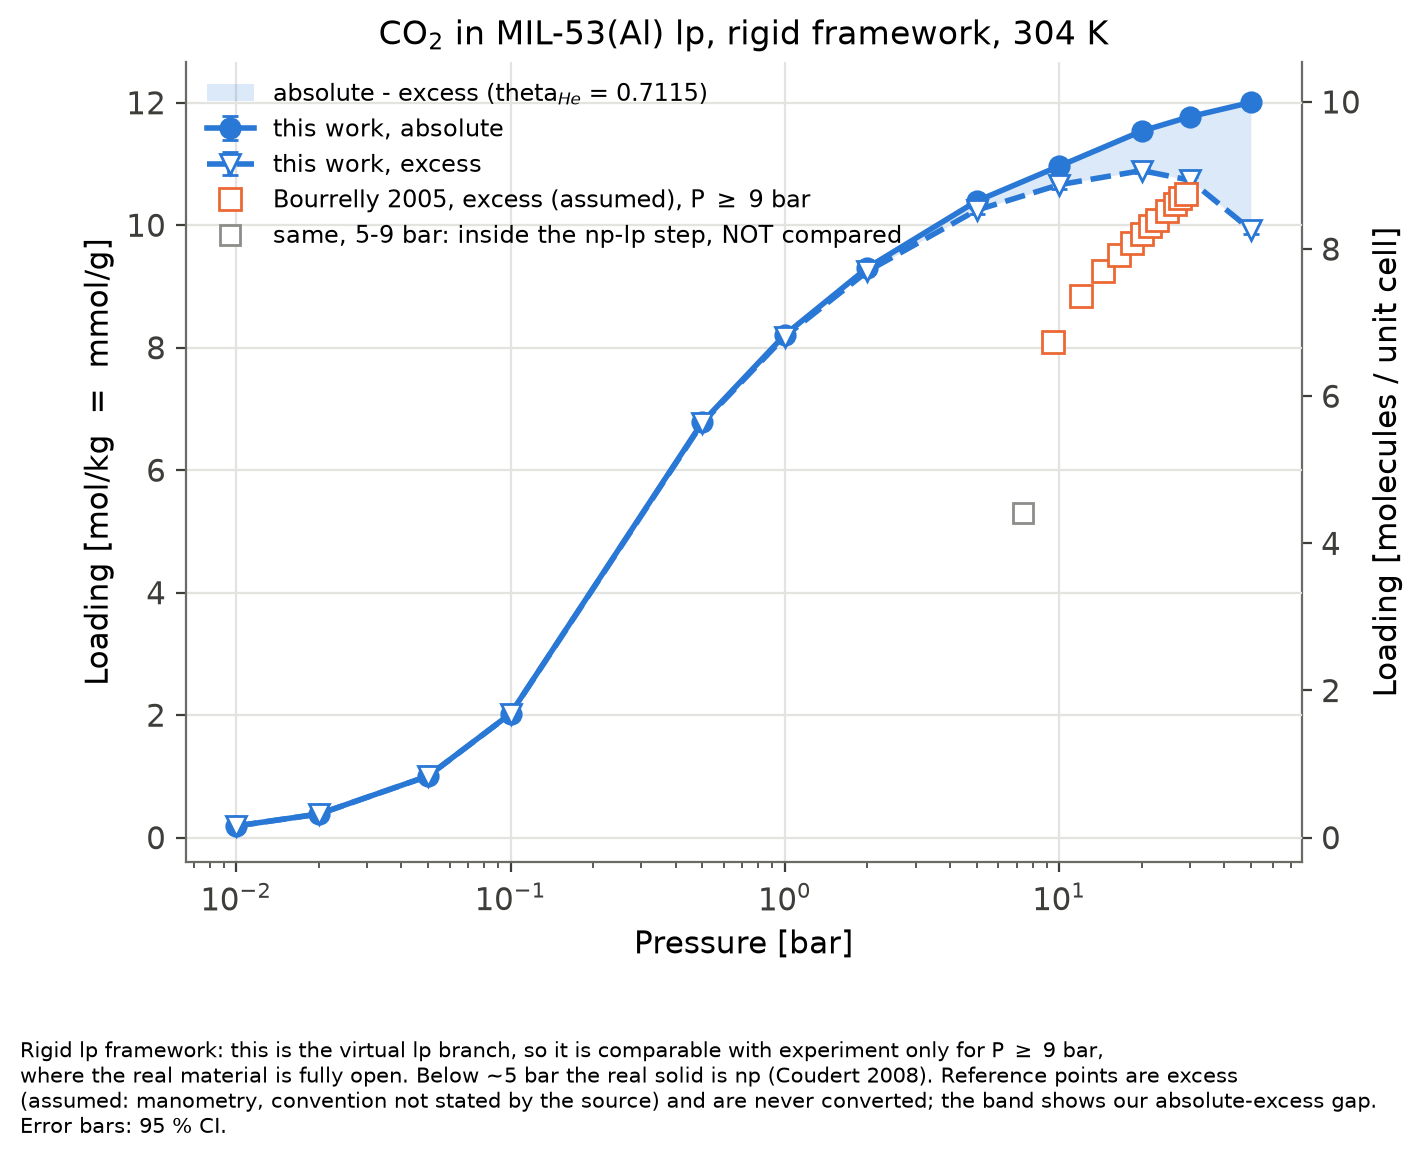
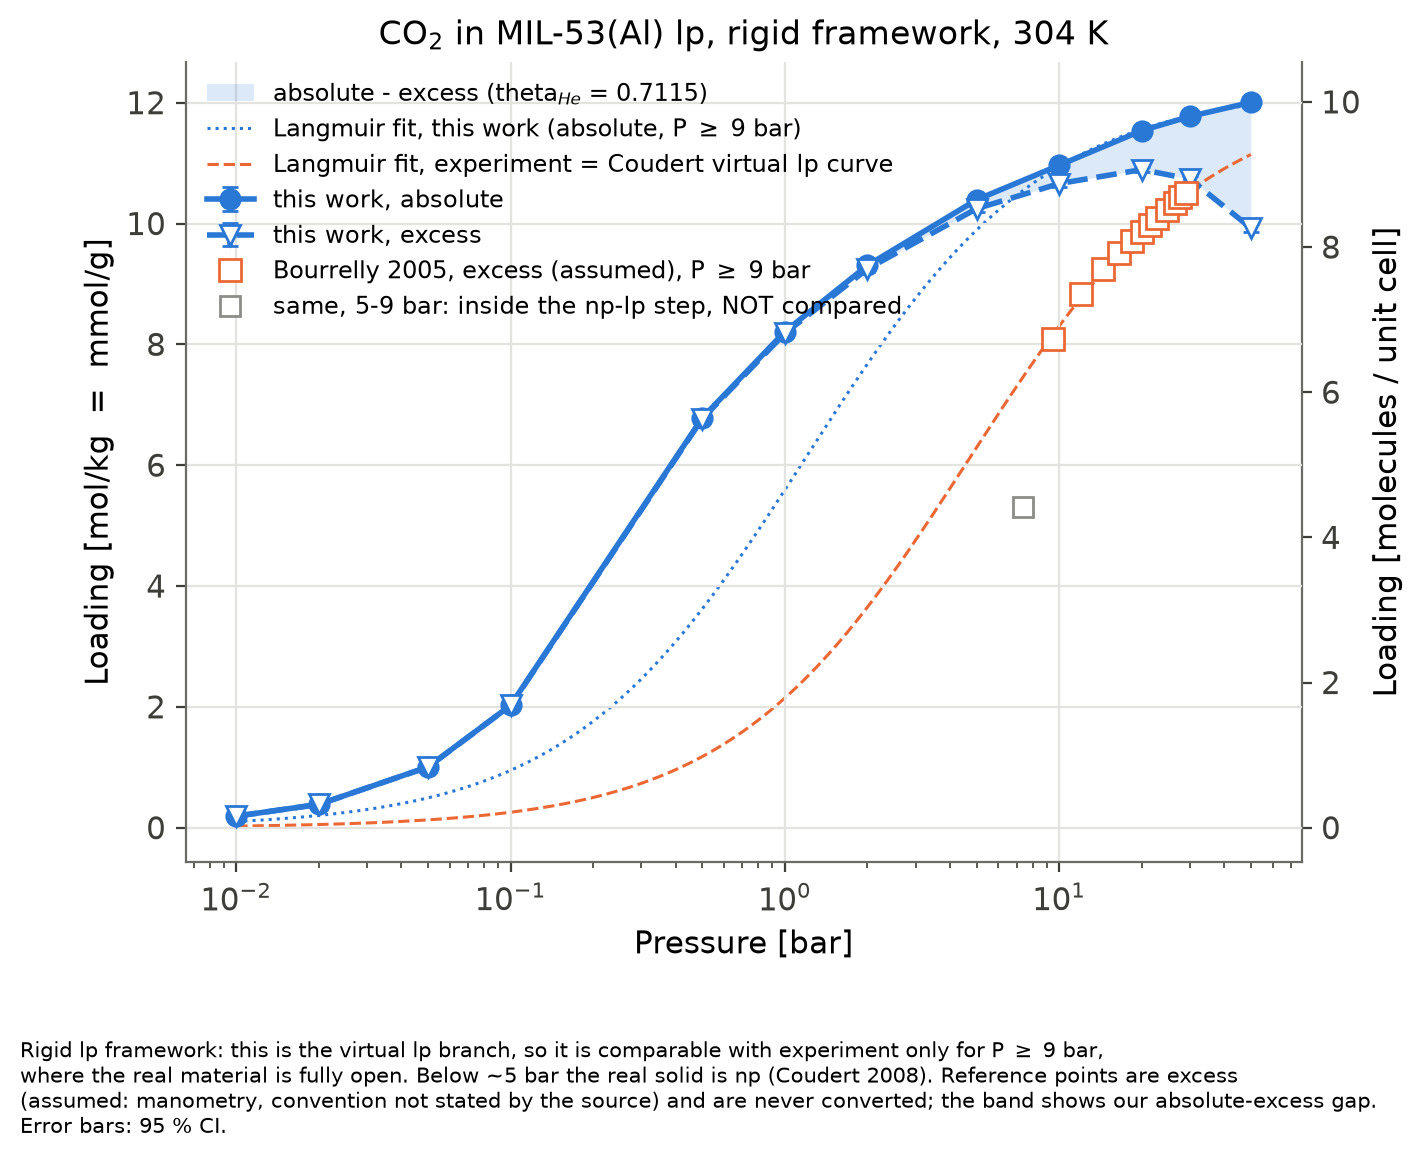
Phase 3 final: option (a) headline, (b) as algebraic robustness check, three figures, rewritten limits section
- (b) excess-aware fit changes K by -0.00 % (identical by construction:
  RASPA's absolute-excess IS rho_bulk*V_pore/M), so K_sim/K_exp ~ 4 does not
  depend on the convention
- deviation_vs_pressure.png: sim/exp 1.32 -> 1.12 (absolute) over 10-30 bar
- rigid-GCMC limits rewritten against our numbers: N_max to 0.5 %, remaining
  P >= 9 bar deviation is force field, not flexibility
- refusal logic documented as a deliberate design choice
- timing estimator was ~50 % low (8 h predicted, 12.1 h actual), with reasons

diff --git a/scripts/deviation.py b/scripts/deviation.py
@@ -1,0 +1,84 @@
+#!/usr/bin/env python3
+"""Relative deviation simulation / experiment over the lp window (P >= 9 bar).
+
+The experimental reference is the Langmuir fit to the digitised Bourrelly points
+(P >= 9 bar), whose K reproduces Coudert's K_lp to a ratio of 1.00, i.e. it IS the
+virtual rigid-lp curve. Using the fitted curve rather than the raw points lets the
+ratio be evaluated at our own pressures without converting or interpolating the
+reference data.
+
+Two series are drawn (our absolute and our excess loading), because the reference
+is excess (assumed) while the Langmuir comparison uses our absolute isotherm; the
+two bracket the convention mismatch. Points above 29 bar (the last experimental
+pressure) rely on extrapolating the experimental fit and are drawn open.
+
+Usage: python scripts/deviation.py
+"""
+import sys
+from pathlib import Path
+
+import numpy as np
+import pandas as pd
+
+sys.path.insert(0, str(Path(__file__).parent))
+from isotherm import LP_WINDOW_BAR, ROOT
+from langmuir import fit_langmuir, REF_CSV
+from plotstyle import EXTRA, SIM, plt
+
+P_MAX_EXP_BAR = 29.03   # last experimental pressure; beyond this the fit is extrapolated
+
+
+def main():
+    sim = pd.read_csv(ROOT / "results" / "isotherm_MIL53_lp_CO2_304K.csv", comment="#")
+    ref = pd.read_csv(REF_CSV)
+    e = ref[ref.pressure_bar >= LP_WINDOW_BAR]
+    fe = fit_langmuir(e.pressure_bar, e.loading_mmol_per_g, np.full(len(e), 0.05))
+    langmuir = lambda p, f: f["N_max"] * f["b_per_bar"] * p / (1 + f["b_per_bar"] * p)
+
+    s = sim[sim.p_bar >= LP_WINDOW_BAR].copy()
+    s["exp_fit"] = langmuir(s.p_bar, fe)
+    rows = []
+    fig, ax = plt.subplots(figsize=(6.8, 4.6))
+    for col, style, lab in (("absolute", SIM, "absolute (the quantity fitted)"),
+                            ("excess", {**SIM, "marker": "v", "ls": "--", "mfc": "white"},
+                             f"excess (same convention as the reference, theta$_{{He}}$ = {sim.theta_He.iloc[0]})")):
+        ratio = s[f"{col}_mol_kg"] / s.exp_fit
+        err = s[f"{col}_mol_kg_err95"] / s.exp_fit
+        ax.errorbar(s.p_bar, ratio, yerr=err, label=f"this work, {lab}", **style)
+        inside = s.p_bar <= P_MAX_EXP_BAR
+        if (~inside).any():
+            ax.plot(s.p_bar[~inside], ratio[~inside], style["marker"], ms=11, mfc="none",
+                    mec=style["color"], lw=0)
+        for p_bar, r in zip(s.p_bar, ratio):
+            rows.append({"p_bar": p_bar, "convention": col, "sim_over_exp": r,
+                         "extrapolated_reference": p_bar > P_MAX_EXP_BAR})
+    ax.axhline(1.0, color="#3d3d3a", lw=1.2)
+    ax.axhspan(0.95, 1.05, color="#8c8c88", alpha=0.15, lw=0, label="+/- 5 %")
+    ax.annotate("open symbols: experimental fit extrapolated\nbeyond the last data point (29 bar)",
+                xy=(0.98, 0.04), xycoords="axes fraction", ha="right", fontsize=8, color="#3d3d3a")
+    ax.set_xscale("log")
+    ax.set_xticks([10, 20, 30, 50])
+    ax.get_xaxis().set_major_formatter(plt.matplotlib.ticker.ScalarFormatter())
+    ax.get_xaxis().set_minor_formatter(plt.matplotlib.ticker.NullFormatter())
+    ax.set_xlabel("Pressure [bar]")
+    ax.set_ylabel("simulation / experiment")
+    ax.set_title("CO$_2$ in MIL-53(Al) lp, 304 K: deviation over the lp branch\n"
+                 "(reference = Langmuir fit to Bourrelly 2005, P $\\geq$ 9 bar)", fontsize=11)
+    ax.legend(fontsize=8.5, loc="upper right")
+    fig.text(0.01, -0.07,
+             "Where the real material is fully open the rigid-lp GCMC converges onto the experiment: the remaining "
+             "deviation at 10 bar is\nthe force field over-binding at low coverage (K$_{sim}$/K$_{exp}$ = 3.95), not the "
+             "missing framework flexibility. Below 9 bar (not shown)\nthe real solid is np and no comparison is meaningful. "
+             "Error bars: 95 % CI on the simulation only.",
+             fontsize=7.5, va="top")
+    fig.savefig(ROOT / "results" / "deviation_vs_pressure.png")
+    df = pd.DataFrame(rows)
+    df.to_csv(ROOT / "results" / "deviation_vs_pressure.csv", index=False)
+    with pd.option_context("display.float_format", "{:.4g}".format):
+        print(df.pivot(index="p_bar", columns="convention", values="sim_over_exp").to_string())
+    print("wrote results/deviation_vs_pressure.{png,csv}")
+    return 0
+
+
+if __name__ == "__main__":
+    sys.exit(main())

diff --git a/scripts/langmuir.py b/scripts/langmuir.py
@@ -32,6 +32,8 @@ sys.path.insert(0, str(Path(__file__).parent))
 from isotherm import LP_WINDOW_BAR, MOLKG_PER_UC, REF_CSV, ROOT  # noqa: E402
 from plotstyle import EXTRA, REF, SIM, plt  # noqa: E402
 
+M_CO2_KG_MOL = 0.04401
+V_PORE_CM3_G = 0.7268          # theta_He * V_uc / m_uc (see NOTES.md)
 K_LP_COUDERT = 2.6e-5   # mol/kg/Pa, Coudert 2008 Fig. 5b (Langmuir fit, no error bar given)
 K_NP_COUDERT = 9.0e-5
 
@@ -90,6 +92,20 @@ def fit_langmuir(p_bar, n, sigma):
             "K_mol_kg_bar": K, "K_err_mol_kg_bar": dK,
             "K_mol_kg_Pa": K * 1e-5, "K_err_mol_kg_Pa": dK * 1e-5,
             "chi2_red": chi2_red, "n_points": len(p)}
+
+
+def fit_excess_aware(p_bar, n_excess, sigma, rho_bulk_kg_m3):
+    """Robustness check (b): fit  n_exc(p) = Langmuir_abs(p) - rho_bulk(p) * V_pore / M.
+
+    NOTE, verified numerically on our data: RASPA's (absolute - excess) equals
+    rho_bulk * V_pore / M to within 1e-6 mol/kg at every point, so adding that term
+    back to the excess data reconstructs the absolute isotherm exactly. This fit is
+    therefore ALGEBRAICALLY the absolute fit, not an independent estimate; it is
+    reported to show, with a number, that the K ratio does not depend on the
+    convention. It is not evidence of anything beyond that.
+    """
+    n_bulk = np.asarray(rho_bulk_kg_m3, float) * V_PORE_CM3_G * 1e-3 / M_CO2_KG_MOL
+    return fit_langmuir(p_bar, np.asarray(n_excess, float) + n_bulk, sigma)
 
 
 def show(name, f):
@@ -160,7 +176,15 @@ def main(argv=None):
           f"   ({fs['N_max']:.2f} vs {fe['N_max']:.2f} mol/kg)")
     print(f"    K      sim / exp = {fs['K_mol_kg_Pa'] / fe['K_mol_kg_Pa']:.3f}"
           f"   ({fs['K_mol_kg_Pa']:.2e} vs {fe['K_mol_kg_Pa']:.2e} mol/kg/Pa)")
-    pd.DataFrame([{"fit": "experiment_Bourrelly2005", **fe}, {"fit": f"simulation_{a.column}", **fs}]).to_csv(
+    fb = fit_excess_aware(s.p_bar, s.excess_mol_kg, s.excess_mol_kg_err95 / 2.776, s.bulk_density_kg_m3)
+    dK = 100 * (fb["K_mol_kg_Pa"] - fs["K_mol_kg_Pa"]) / fs["K_mol_kg_Pa"] if fs["ok"] else float("nan")
+    print(f"\n(b) excess-aware fit, for robustness (Langmuir for absolute minus rho_bulk(p) V_pore):")
+    print(f"    K = {fb['K_mol_kg_Pa']:.3e} +/- {fb['K_err_mol_kg_Pa']:.1e} mol/kg/Pa, "
+          f"N_max = {fb['N_max']:.3f} mol/kg -> {dK:+.2f} % vs the absolute fit")
+    print("    (identical by construction: RASPA's absolute - excess IS rho_bulk V_pore / M to 1e-6 mol/kg,")
+    print("     so the K ratio ~ 4 does not depend on the excess/absolute convention.)")
+    pd.DataFrame([{"fit": "experiment_Bourrelly2005", **fe}, {"fit": f"simulation_{a.column}", **fs},
+                  {"fit": "simulation_excess_aware_(b)", **fb}]).to_csv(
         ROOT / "results" / "langmuir_fits.csv", index=False)
 
     # ---- 4. the three curves

diff --git a/scripts/isotherm.py b/scripts/isotherm.py
@@ -123,6 +123,25 @@ def main(argv=None):
             g = ref[ref.in_lp_window == flag]
             if len(g):
                 ax.errorbar(g.pressure_bar, g.loading_mmol_per_g, label=lab, **style)
+    # Langmuir curves (fitted over P >= 9 bar; see scripts/langmuir.py)
+    try:
+        from langmuir import fit_langmuir
+        w = df[df.p_bar >= LP_WINDOW_BAR]
+        if len(w) >= 3:
+            fs = fit_langmuir(w.p_bar, w.absolute_mol_kg, w.absolute_mol_kg_err95 / 2.776)
+            pp = np.logspace(np.log10(df.p_bar.min()), np.log10(df.p_bar.max()), 300)
+            if fs["ok"]:
+                ax.plot(pp, fs["N_max"] * fs["b_per_bar"] * pp / (1 + fs["b_per_bar"] * pp),
+                        color=SIM["color"], lw=1.1, ls=":", zorder=1,
+                        label=f"Langmuir fit, this work (absolute, P $\\geq$ {LP_WINDOW_BAR:g} bar)")
+            if ref is not None:
+                er = ref[ref.in_lp_window]
+                fe = fit_langmuir(er.pressure_bar, er.loading_mmol_per_g, np.full(len(er), 0.05))
+                ax.plot(pp, fe["N_max"] * fe["b_per_bar"] * pp / (1 + fe["b_per_bar"] * pp),
+                        color=REF["color"], lw=1.1, ls="--", zorder=1,
+                        label="Langmuir fit, experiment = Coudert virtual lp curve")
+    except Exception as exc:  # never let the figure fail on the fit
+        print(f"  (Langmuir overlay skipped: {exc})")
     ax.set_xscale("log")
     ax.set_xlabel("Pressure [bar]")
     ax.set_ylabel("Loading [mol/kg  =  mmol/g]")

diff --git a/NOTES.md b/NOTES.md
@@ -478,9 +478,16 @@ uninterrupted run.
 ### The run
 12 points, 304 K, 0.01-50 bar, `runs/production/`, driver with 4 concurrent jobs:
 **batch wall time 43,677 s = 12.1 h** (44.6 h of CPU). All 12 finished, none failed,
-no missing-VDW warnings. The 1000-cycle extrapolation had predicted ~8 h: it is
-**~50 % low**, as its docstring warns, because the cost per move grows with loading
-and four concurrent jobs share memory bandwidth. Use it as a lower bound.
+no missing-VDW warnings.
+
+**The 1000-cycle timing estimator was ~50 % low: 8 h predicted, 12.1 h actual.**
+Two reasons, both in the estimator's own docstring as assumptions: (i) it takes the
+cost per MC move as constant, whereas it grows with loading (more guest-guest pairs
+and a larger Ewald guest contribution), so the high-pressure points, which dominate
+the total, are underestimated; (ii) four concurrent jobs share memory bandwidth and
+last-level cache on the M2, so four points do not run 4x faster than one. Per-point
+comparison: 50 bar was estimated at 3.7 h and took 4.6 h. **Treat the estimate as a
+lower bound; multiply by ~1.5 for planning.**
 
 ### Convergence
 - Relative error on absolute loading: **0.3-1.6 % at every point**, including 1.05 %
@@ -523,13 +530,25 @@ rho_bulk * V_pore keeps growing. The experimental points still rise at 29 bar.
 - **K: sim/exp = 3.95** (1.03e-4 vs 2.61e-5). The simulated isotherm rises much
   faster, i.e. the generic force field over-binds at low coverage - the signature
   anticipated in "Force-field limitations".
-- **The excess fit is refused, not fudged** (`langmuir.py` checks monotonicity, the
-  parameter bound and dK < K): a Langmuir function cannot represent a
-  non-monotonic curve. **OPEN:** the comparison above therefore puts our *absolute*
-  fit against an *excess* fit of the experiment. Options: (a) accept it with the
-  convention caveat stated, (b) fit our excess with an excess-aware form
-  (Langmuir for absolute, minus rho_bulk(p) V_pore), (c) restrict the window
-  (9-20 bar leaves only 2 simulated points: not viable).
+- **The excess fit is refused, not fudged.** `langmuir.py` checks monotonicity, the
+  parameter bound and dK < K, and prints the reason instead of a number. **This is a
+  deliberate design choice** (decision of 2026-09-20): a script that says why it will
+  not fit is worth more than one that returns K = 0.32 mol/kg/Pa with an error bar
+  2400x the value, which is what the unguarded fit did here.
+- **CONVENTION MISMATCH, resolved as option (a) (decision of 2026-09-20).** The main
+  table and figures compare our **absolute** Langmuir fit with the experiment's
+  **excess** fit, and say so in the caption and in this footnote. Our own
+  absolute-excess gap is **2.8 % at 10 bar, 5.6 % at 20 bar, 8.8 % at 30 bar and
+  17.3 % at 50 bar**.
+- **(b) excess-aware fit, for robustness:** fitting
+  n_exc(p) = Langmuir_abs(p) - rho_bulk(p) V_pore / M to our excess data gives
+  **K = 1.029e-4 mol/kg/Pa, a change of -0.00 %** versus the absolute fit, and the
+  same N_max. It is identical *by construction*, not by coincidence: RASPA's
+  (absolute - excess) equals rho_bulk V_pore / M to within 1e-6 mol/kg at every
+  point (verified numerically), so adding that term back to the excess data
+  reconstructs the absolute isotherm exactly. **The conclusion K_sim/K_exp ~ 4 is
+  therefore independent of the excess/absolute convention**, which is worth saying
+  out loud -- but it is an algebraic identity, not independent evidence.
 - Direct-insertion **K_H = 1.869e-4 +/- 0.016e-4 mol/kg/Pa** stays separate: the
   zero-coverage limit of the force field, 7.2x the experimental Langmuir K and 1.8x
   our own fitted Langmuir K - the gap between the last two measures how
@@ -547,59 +566,46 @@ Agreement improves with pressure: ~30 % high at 10 bar, ~10 % at 20 bar, ~2 % at
 saturation capacity.
 
 ## What a rigid-framework GCMC can and cannot reproduce for MIL-53
+(rewritten 2026-09-20 against our own numbers)
 
-(Sources read by the project owner on 2026-09-19: Bourrelly 2005, Coudert 2008,
-Ghoufi & Maurin 2010.)
+**What it reproduces.** The **saturation capacity of the open form, to 0.5 %**:
+N_max = 12.248 +/- 0.039 mol/kg (10.195 molecules/uc) from our isotherm against
+12.183 +/- 0.069 mol/kg (10.141 molecules/uc) from the experimental lp branch. The
+pore geometry of the lp structure, the charge model and the GCMC machinery are
+therefore sound: the model holds the right amount of CO2 when the channel is full.
 
-**The experiment.** Bourrelly et al., JACS 2005, 127, 13519, Fig. 2: CO2 and CH4
-isotherms at **304 K up to 30 bar** for **both** MIL-53(Al) (top panel) and
-MIL-53(Cr) (bottom panel). CO2 shows a step at **~6 bar** in both metals. The Al
-panel is our experimental reference (`reference/bourrelly2005_MIL53Al_CO2_304K.csv`,
-digitised by the project owner, not by us).
+**What it cannot do, by construction.** The np-lp step cannot appear: the cell and
+the atoms are frozen in the lp geometry, so there is no np state to go to. The
+model also says nothing about **P < 9 bar**, where the real material is np (it
+closes near 0.3 bar and reopens near 6 bar, Coudert 2008). Our isotherm is the
+**virtual rigid-lp branch** in Coudert's sense -- the loading the lp form would
+have if it stayed open -- and only its P >= 9 bar part is comparable with
+experiment.
 
-**What happens physically** (Coudert et al., JACS 2008, 130, 14294, Fig. 5b,
-arXiv:1904.09588, which analyses exactly this system). At 304 K the empty framework
-is **lp**. CO2 first **closes** it, lp -> np near **0.3 bar**, because np has the
-higher affinity (Langmuir Henry constants K_np ~ 9.0e-5 vs **K_lp ~ 2.6e-5
-mol kg^-1 Pa^-1**). CO2 then **reopens** it, np -> lp near **6 bar**, because lp has
-the larger pore volume. This is a double transition, case "c" of Coudert's
-taxonomy. The free-energy difference between the two empty structures is
-dF(lp -> np) ~ **2.5 kJ/mol per unit cell**. The predicted low-pressure transition
-at 0.3 bar was confirmed by microcalorimetry at 0.25 bar. The reopening step spans
-**5-9 bar**: np below 5 bar, fully open lp above 9 bar.
+**What remains at P >= 9 bar is a force-field effect, not a flexibility effect.**
+Over the window where the real solid is fully lp, the deviation falls
+monotonically towards 1: simulation/experiment = **1.32 at 10 bar, 1.17 at 20 bar,
+1.12 at 30 bar** on absolute loading (1.28 / 1.10 / 1.02 on excess, the reference's
+convention); see `results/deviation_vs_pressure.png`. Flexibility is not the
+explanation, because these pressures are above the reopening. The explanation is
+low-coverage over-binding by the generic force field:
+- **K_sim / K_exp = 3.95** (1.029e-4 vs 2.606e-5 mol/kg/Pa, same Langmuir form,
+  same window, same procedure), while N_max agrees to 0.5 %. The simulated isotherm
+  rises too steeply and saturates too early, then matches once the channel is full.
+- **K_H(Widom) = 1.869e-4 mol/kg/Pa is 1.8x our own fitted Langmuir K**, so the
+  simulated isotherm is more energetically heterogeneous than a single-site
+  Langmuir: a few strong sites dominate at low coverage.
+- Switching the framework charges off moves K_H by only ~15 %, so **the excess sits
+  in the Lennard-Jones term, not in the mu-OH electrostatics**.
 
-**What our simulation is.** With the lp structure held rigid, we compute the
-**"virtual" rigid-host lp isotherm**, the blue dashed curve of Coudert Fig. 5b.
-The np-lp breathing cannot appear, **by construction**: the simulation has no np
-state to go to. Consequences for the comparison:
-- It should agree with experiment **only for P >= 9 bar**, where the real solid is
-  fully lp. The comparison with the Bourrelly points is therefore restricted to
-  P >= 9 bar, and every figure caption says so.
-- Below 5 bar the real solid is np. Our lp loading there is not expected to match
-  and is not a force-field test.
-- **Quantitative low-pressure test instead:** the initial slope (Henry constant) of
-  our isotherm is compared with K_lp ~ 2.6e-5 mol kg^-1 Pa^-1 from Coudert's
-  Langmuir fit, with the uncertainty of our slope (Phase 3). This tests the
-  CO2-lp interaction where the lp assumption holds by definition. Note: Coudert
-  reports K_lp without an error bar, and it comes from a Langmuir fit, so "agreement"
-  will be judged against our own uncertainty plus a stated tolerance, not as exact.
+**What would be needed next.**
+1. A **system-specific framework force field** for MIL-53, as the Maurin group
+   derived, instead of generic UFF + DDEC + TraPPE. That addresses the
+   low-coverage over-binding, which is the deviation we actually see.
+2. A **flexible-framework treatment** to reach the transition itself: the osmotic
+   ensemble (rigid np isotherm + dF_host, Coudert 2008) or hybrid GCMC/MD
+   (Ghoufi & Maurin 2010, whose HOMC captured lp -> np at 0.35 bar but not the
+   reopening, and needed a phase-mixture model for the full isotherm).
+These are separate problems: (1) is about the interaction potential on the lp
+branch, (2) is about which structure the host adopts.
 
-**What would be needed to capture the transition.**
-1. **Osmotic ensemble** (N_host, mu_CO2, sigma, T), as in Coudert 2008. The stable
-   phase at each pressure minimises the osmotic potential, which combines, for each
-   rigid phase, dF_host(lp -> np) and the grand potential from that phase's
-   rigid-GCMC isotherm. Needed on top of this work: a rigid np isotherm plus
-   dF_host (~2.5 kJ/mol/uc). This yields the step pressures.
-2. **Hybrid GCMC/MD (HOMC) with a flexible framework**, with a force field that has
-   both np and lp minima. Ghoufi & Maurin, J. Phys. Chem. C 2010, 114, 6496
-   (DOI 10.1021/jp911484g): their HOMC scheme **captured the lp -> np transition at
-   0.35 bar but failed to capture the np -> lp reopening**, which they attributed to
-   the highly ordered orientation of CO2 in the np channels. They needed a
-   **phase-mixture model** to reproduce the full isotherm. So even a flexible
-   simulation does not trivially give the second step.
-   Their settings, useful as a sanity reference: **32 unit cells**, Ewald
-   electrostatics, van der Waals truncated at **12 A**, **Harris-Yung rigid CO2**,
-   **300 K**.
-   (For comparison, the DL_POLY `FIELD-MIL53Cr` published by A. Ghoufi, see
-   "Structure provenance", describes 2432 atoms = 32 cells x 76, with a flexible
-   framework and a CO2 model with q_C = +0.6512, i.e. not the rigid HY model of 2010.)
